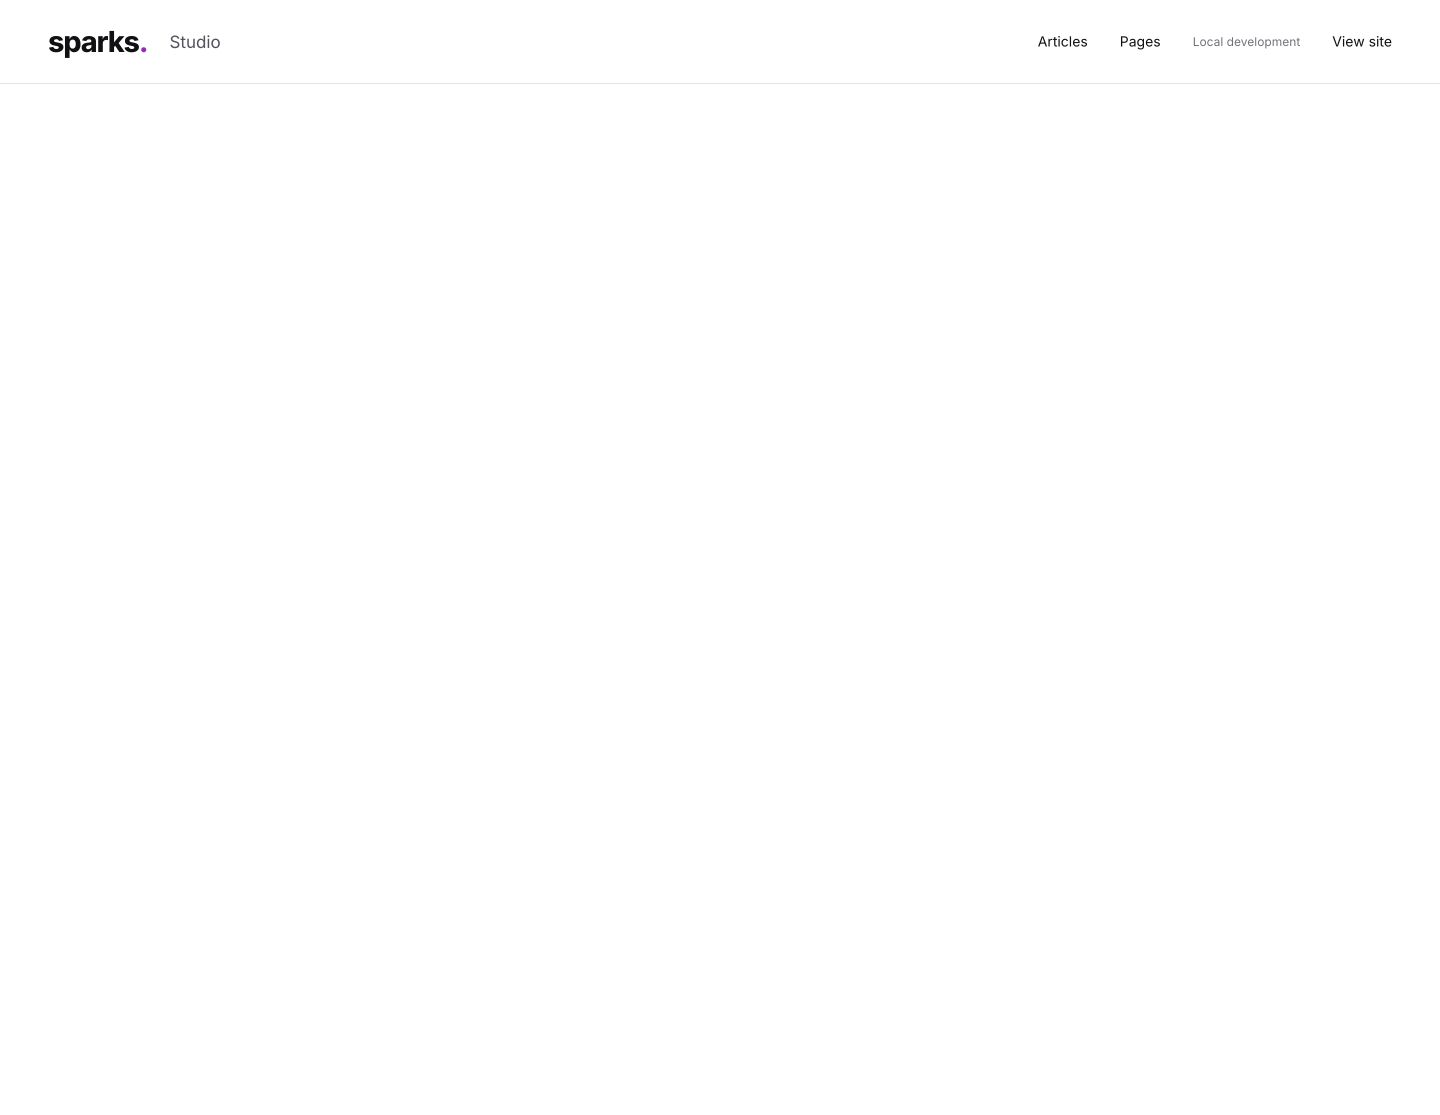
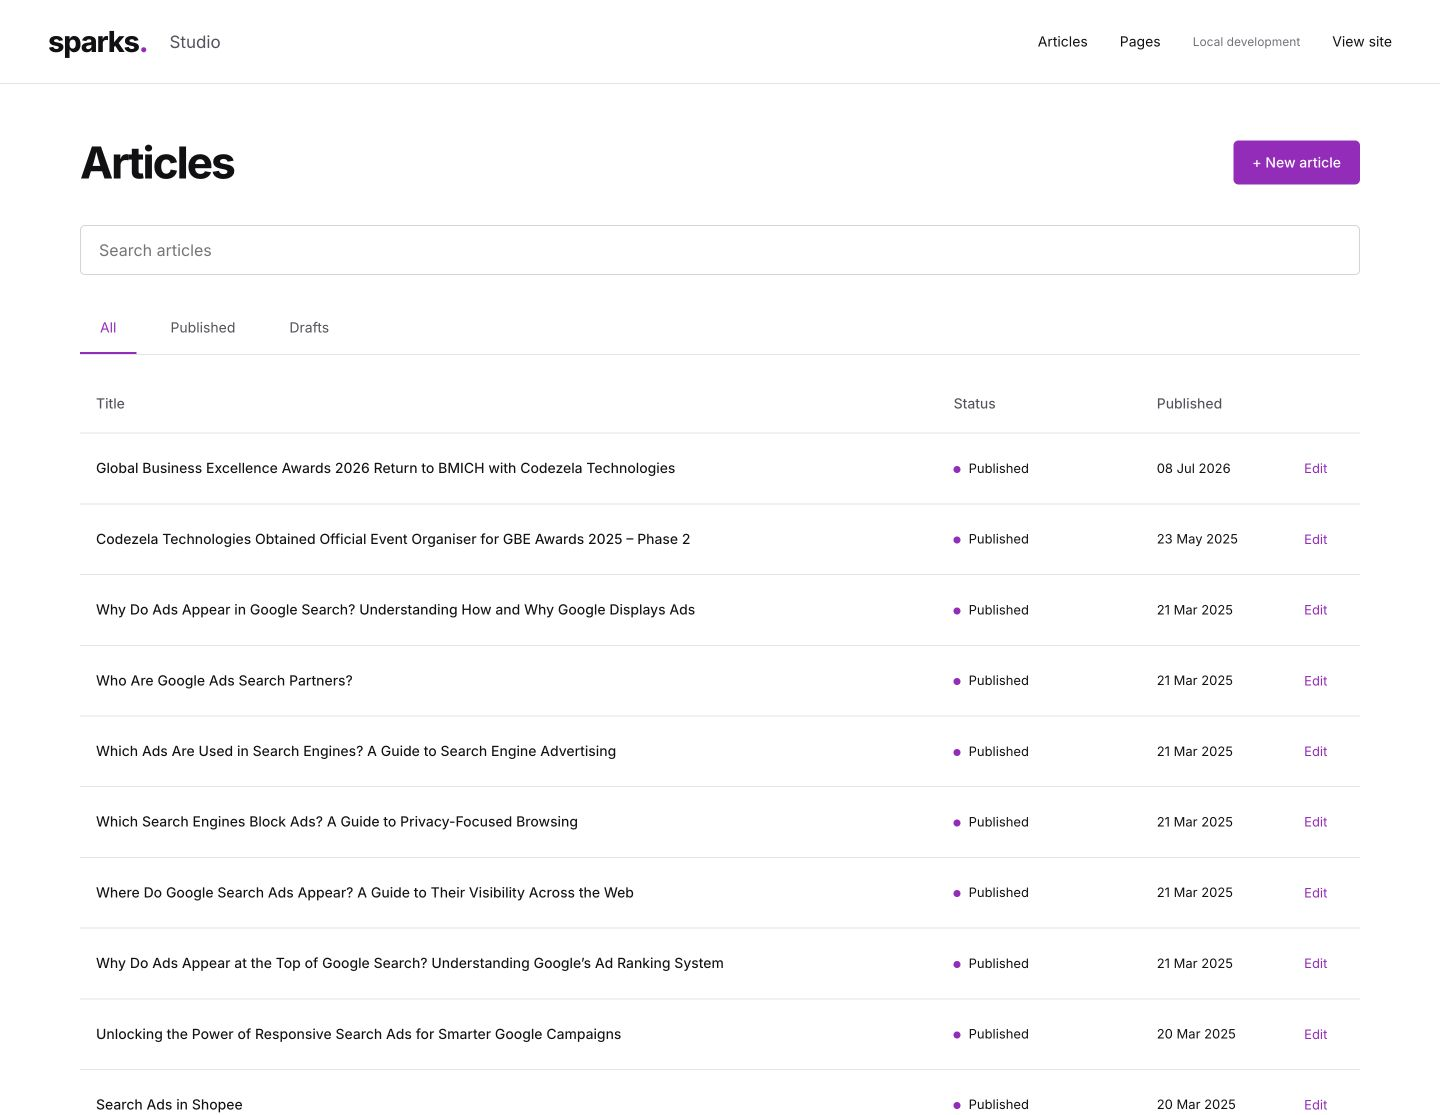
Log details when studio article saves fail

diff --git a/src/pages/api/studio/articles.ts b/src/pages/api/studio/articles.ts
@@ -68,6 +68,11 @@ export const POST: APIRoute = async ({ request, locals }) => {
     );
     return json({ ...result, article, url: `/${article.slug}/` });
   } catch (error) {
+    console.error('Studio save failed', {
+      name: (error as Error).name,
+      code: (error as { code?: string }).code,
+      message: (error as Error).message,
+    });
     if (error instanceof ConflictError)
       return json({ error: error.message }, 409);
     if ((error as { code?: string }).code === '23505')
